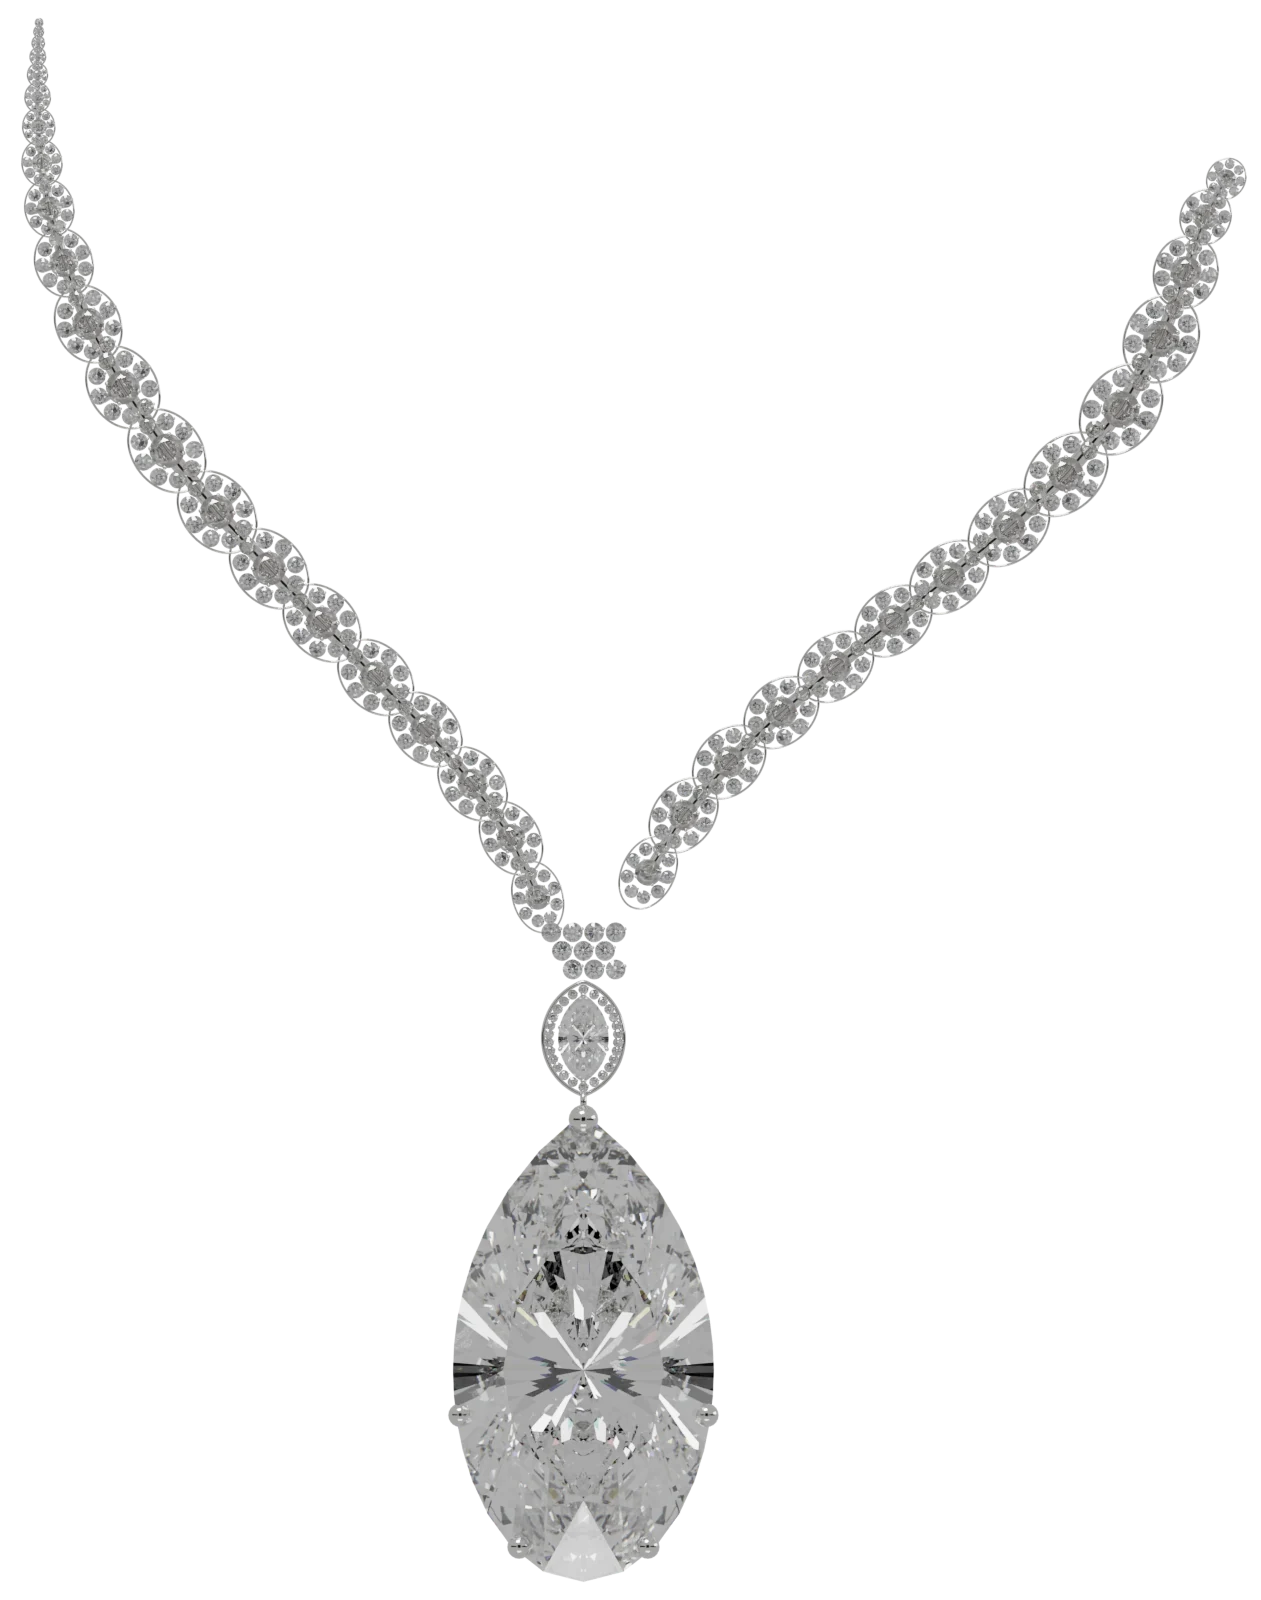
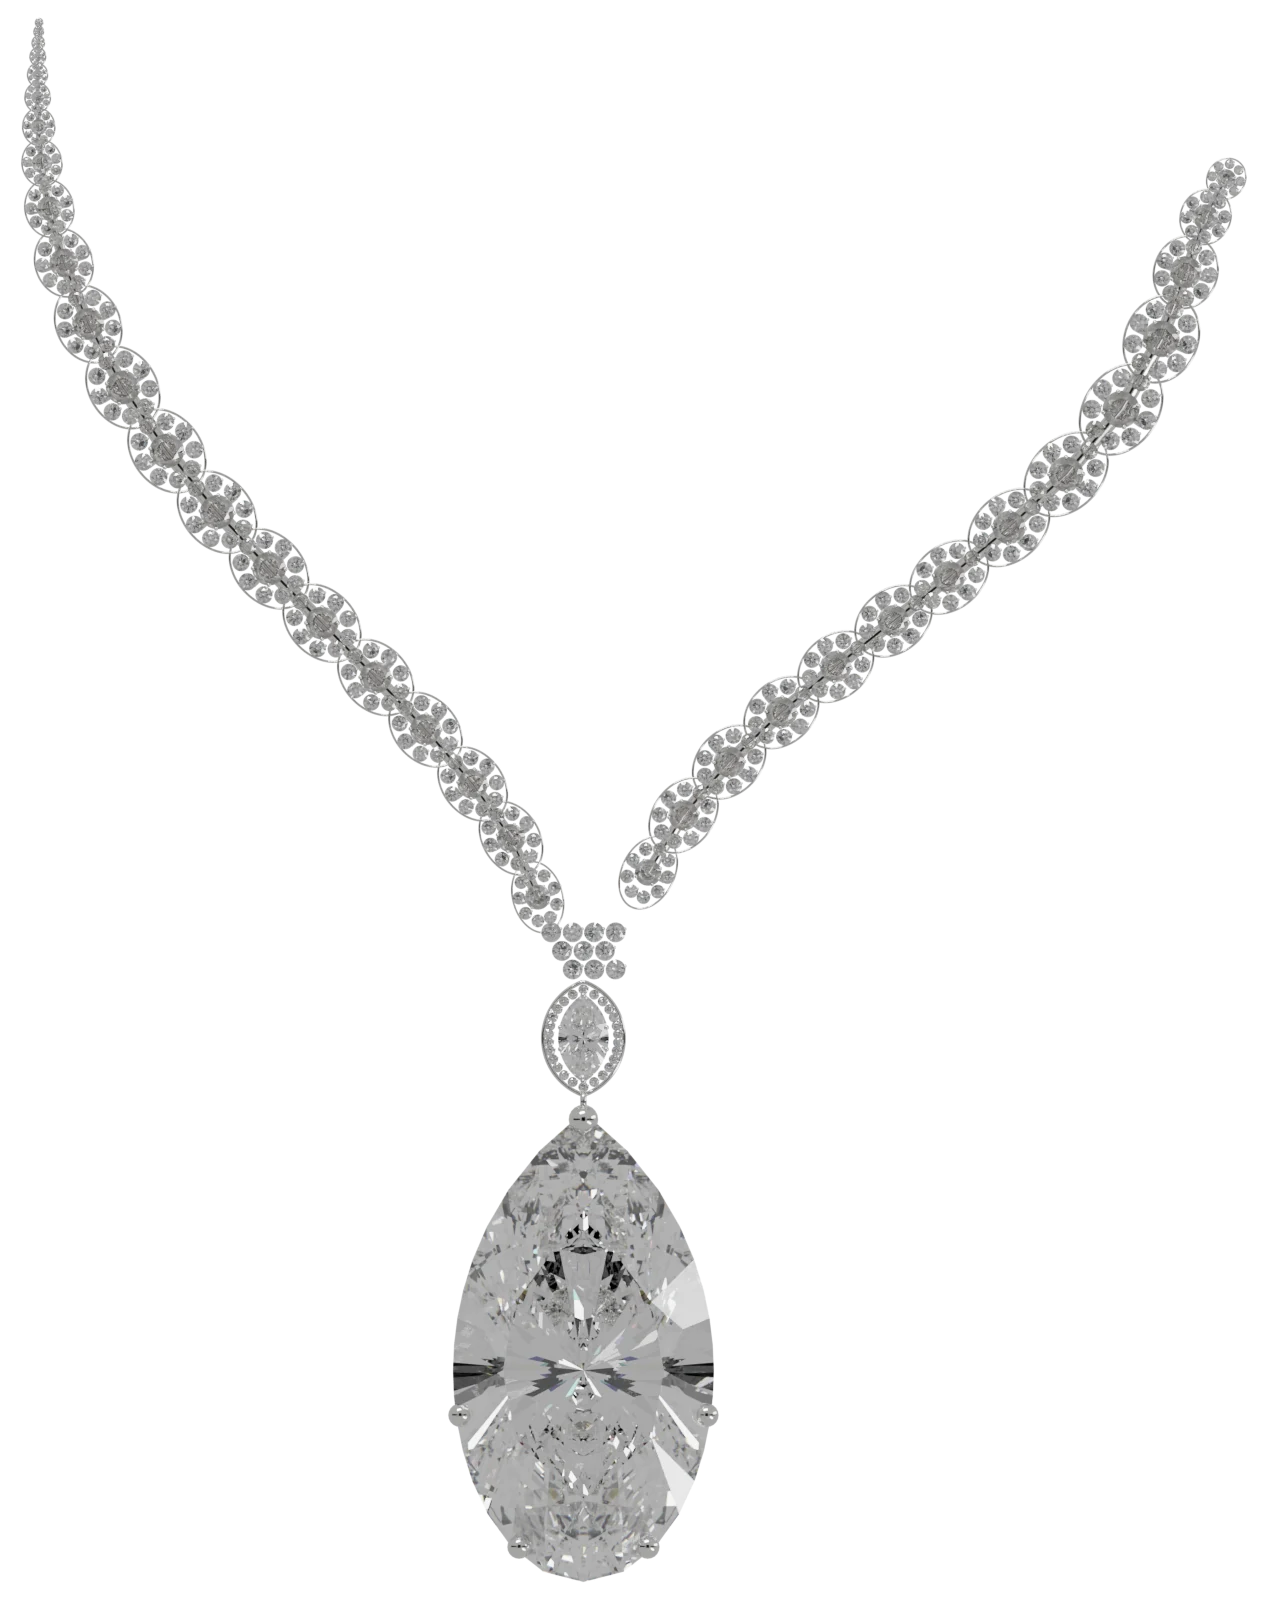
Jewelry: diamond optics only: clearer, brighter refraction; geometry untouched
- Diamond: glass at index 2.417 (per channel at the C, d and F lines, Abbe
  55), full transmission, colourless, roughness 0.005 (was 0.01).
- Dark studio: the room is near-black (about #050505), not pure black;
  three long soft boxes (key : secondary : rim = 1 : 0.3 : 0.2, the key
  stronger than before); and a ring of long soft boxes round the piece with
  dark gaps between, which the stones see and the camera never does: the
  light passing through the stone. Chosen from three setups compared on the
  drop; on it now about 54% light-carrying midtones, 37% deep, 9% bright,
  1% clipped (before: 75% dark).
- No geometry change: the silhouette's coverage is the same to 0.03%.

Claude-Session: https://claude.ai/code/session_01ND34h3CQFwLi2jV16e1Vwz

diff --git a/art/necklace.py b/art/necklace.py
@@ -62,7 +62,7 @@ gn.clear()
 glass = gn.new("ShaderNodeBsdfGlass")
 glass.distribution = "GGX"
 glass.inputs["Color"].default_value = (1, 1, 1, 1)
-glass.inputs["Roughness"].default_value = 0.01
+glass.inputs["Roughness"].default_value = 0.005                  # facets optically crisp
 glass.inputs["IOR"].default_value = 2.417
 gem.node_tree.links.new(glass.outputs[0], gn.new("ShaderNodeOutputMaterial").inputs["Surface"])
 
@@ -399,7 +399,9 @@ world = bpy.data.worlds.new("dark")
 scene.world = world
 world.use_nodes = True
 LIGHT = "--light" in sys.argv       # the same piece in a white light box, for the page's light theme
-world.node_tree.nodes["Background"].inputs["Color"].default_value = (1, 1, 1, 1) if LIGHT else (0, 0, 0, 1)
+# the dark studio isn't pure black: a faint neutral room (#050505 or so) gives the
+# transparent facets something to carry, so they read as clear, not as holes
+world.node_tree.nodes["Background"].inputs["Color"].default_value = (1, 1, 1, 1) if LIGHT else (0.0016, 0.0016, 0.0016, 1)
 world.node_tree.nodes["Background"].inputs["Strength"].default_value = (0.6 if LIGHT else 1.0)   # the white box a little down, so the facets keep their structure
 
 
@@ -416,10 +418,57 @@ def area(name, size, power, loc, aim=(0, 0, 0)):
     return li
 
 
-KEY = 2.5e7 if LIGHT else 4.0e7
-area("key", (520, 320), KEY, (-220, 1100, 650))                # above, a little left: its bands cross the facets, not a table's mirror line
-area("fill", (900, 260), KEY * 0.15, (0, -1100, 900))           # broad and weak, low in front (off the tables' mirror line)
-area("rim", (260, 700), KEY * 0.15, (1100, 250, -60))            # far right, grazing: the silhouette's edge, never seen through a stone
+# three long soft boxes, key : secondary : rim = 1 : 0.3 : 0.2, far brighter than the room,
+# so the facets carry long bright bands against deep dark ones (the contrast is the light's,
+# not the stone's colour). Chosen from three setups compared on the drop (moderate,
+# stronger, stronger rim): the stronger one, with the soft boxes below
+KEY = 2.5e7 if LIGHT else 9.0e7
+area("key", (700, 180), KEY, (-220, 1100, 650))                 # a long strip above, a little left: bands across the facets
+area("secondary", (180, 700), KEY * 0.3, (900, -500, 700))      # a long strip front right, crossing the key's bands
+area("rim", (220, 900), KEY * 0.2, (1100, 250, -60))   # far right, grazing: the edges
+
+
+def softbox(el0, el1, az, half, power, dist=2000.0):
+    """A large soft light round the piece (the stones see it; the camera never does),
+    seen from the piece between elevations el0..el1 degrees, centred on azimuth az."""
+    m = bpy.data.materials.new("softbox")
+    m.use_nodes = True
+    nodes = m.node_tree.nodes
+    nodes.clear()
+    e = nodes.new("ShaderNodeEmission")
+    e.inputs["Strength"].default_value = power
+    m.node_tree.links.new(e.outputs[0], nodes.new("ShaderNodeOutputMaterial").inputs["Surface"])
+    b2 = bmesh.new()
+    n, rows = 10, []
+    for i in range(n + 1):
+        el = math.radians(el0 + (el1 - el0) * i / n)
+        row = []
+        for j in range(n + 1):
+            t = math.radians(az - half + 2 * half * j / n)
+            row.append(b2.verts.new((dist * math.cos(el) * math.cos(t), dist * math.cos(el) * math.sin(t), dist * math.sin(el))))
+        rows.append(row)
+    for i in range(n):
+        for j in range(n):
+            b2.faces.new((rows[i][j], rows[i][j + 1], rows[i + 1][j + 1], rows[i + 1][j]))
+    me = bpy.data.meshes.new("softbox")
+    b2.to_mesh(me)
+    o = bpy.data.objects.new("softbox", me)
+    scene.collection.objects.link(o)
+    o.data.materials.append(m)
+    o.visible_camera = False
+    o.visible_shadow = False
+
+
+# long soft boxes round the piece, with dark gaps between them: what the pavilion's
+# facets see through the stone (light passing through it, the transparent, light
+# regions) and what they don't (the dark room, the deep ones)
+if not LIGHT:
+    # 1.5: on the drop about 54% light-carrying midtones, 35% deep, 10% bright, 1% clipped
+    SB = 1.5
+    for az in (20, 110, 200, 290):
+        softbox(28, 52, az, 22, SB)
+    for az in (65, 245):
+        softbox(58, 72, az, 30, SB * 0.6)
 
 
 def flag(loc, size):
